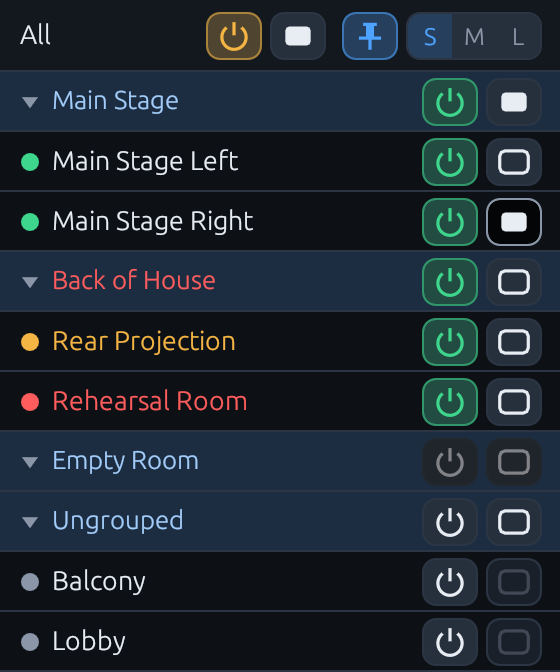
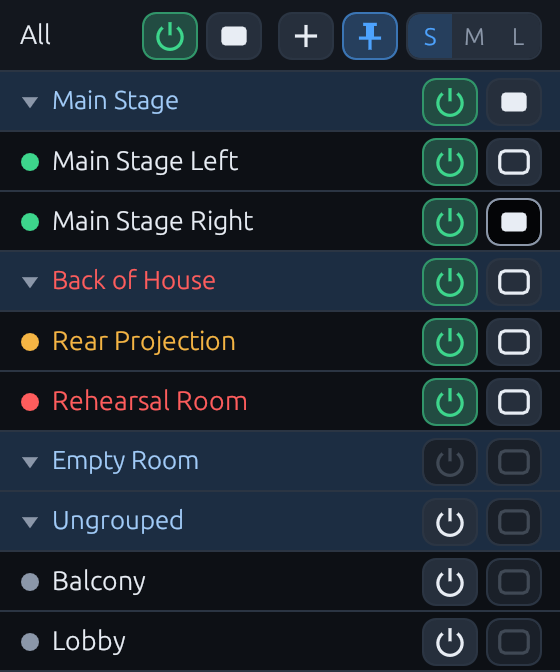
Small windows: pop-out details and editing, add and remove, group toggles
Details open in a little window of their own instead of switching to
the large window. A + button adds a projector, and right-clicking one
offers details, edit, move to group and remove. In the small strip a
group's button flips the whole group when its members agree, and only
asks which way when they differ.

diff --git a/src/ui/compact.rs b/src/ui/compact.rs
@@ -237,6 +237,7 @@ fn projector_controls(
     small: bool,
     cfg: &ProjectorConfig,
     st: &ProjectorState,
+    detail_open: bool,
     acts: &mut Vec<Act>,
 ) {
     let id = Id::new(("compact", cfg.id));
@@ -284,12 +285,17 @@ fn projector_controls(
             power = Some(!matches!(side, Some((true, _))));
         }
     } else {
-        if icon_button(ui, ICON, Icon::Info, true, None)
-            .on_hover_text("Details, in the large window")
-            .clicked()
+        if icon_button(
+            ui,
+            ICON,
+            Icon::Info,
+            true,
+            detail_open.then(|| tint(ACCENT)),
+        )
+        .on_hover_text("Details, in a window of their own")
+        .clicked()
         {
-            acts.push(Act::SetSize(WindowSize::Large));
-            acts.push(Act::Detail(Some(cfg.id)));
+            acts.push(Act::Detail((!detail_open).then_some(cfg.id)));
         }
         let segs = [
             Seg {
@@ -334,17 +340,24 @@ fn projector_controls(
     }
 }
 
-/// A picture button that offers two choices when clicked.
+/// A picture button for a set of projectors. When they all agree it flips
+/// them to the other state (`flip`); when they differ it asks which.
+#[allow(clippy::too_many_arguments)]
 fn choice_button(
     ui: &mut egui::Ui,
     id: Id,
     icon: Icon,
+    enabled: bool,
     lit: Option<Tint>,
     tip: &str,
+    flip: Option<usize>,
     choices: [&str; 2],
 ) -> Option<usize> {
-    let resp = icon_button(ui, ICON, icon, true, lit).on_hover_text(tip);
+    let resp = icon_button(ui, ICON, icon, enabled, lit).on_hover_text(tip);
     if resp.clicked() {
+        if flip.is_some() {
+            return flip;
+        }
         ui.memory_mut(|m| m.toggle_popup(id));
     }
     let mut out = None;
@@ -382,28 +395,55 @@ fn set_controls(
     let mut set_power = None;
 
     if small {
-        ui.add_enabled_ui(any, |ui| {
-            let (icon, lit, tip) = match shutter {
-                Tri::AllOn => (Icon::Close, Some(TINT_CLOSED), "Shutters closed"),
-                Tri::Mixed => (Icon::Close, None, "Some shutters closed"),
-                Tri::AllOff => (Icon::Open, None, "Shutters open"),
-                Tri::Unknown => (Icon::Open, None, "Shutters"),
-            };
-            let choices = ["Open shutters", "Close shutters"];
-            if let Some(i) = choice_button(ui, id.with("shutter"), icon, lit, tip, choices) {
-                set_shutter = Some(i == 1);
-            }
-            let (lit, tip) = match power {
-                Tri::AllOn => (Some(tint(GREEN)), "All on"),
-                Tri::Mixed => (Some(tint(GREEN)), "Some on, some off"),
-                Tri::AllOff => (None, "All off"),
-                Tri::Unknown => (None, "Power"),
-            };
-            let choices = ["Power on", "Power off"];
-            if let Some(i) = choice_button(ui, id.with("power"), Icon::Power, lit, tip, choices) {
-                set_power = Some(i == 0);
-            }
-        });
+        let (icon, lit, tip, flip) = match shutter {
+            Tri::AllOn => (
+                Icon::Close,
+                Some(TINT_CLOSED),
+                "Shutters closed. Click to open them.",
+                Some(0),
+            ),
+            Tri::AllOff => (
+                Icon::Open,
+                None,
+                "Shutters open. Click to close them.",
+                Some(1),
+            ),
+            Tri::Mixed => (
+                Icon::Close,
+                None,
+                "Some shutters closed. Click to choose.",
+                None,
+            ),
+            Tri::Unknown => (Icon::Open, None, "Shutters", None),
+        };
+        let choices = ["Open shutters", "Close shutters"];
+        let can = any && shutter != Tri::Unknown;
+        if let Some(i) = choice_button(ui, id.with("shutter"), icon, can, lit, tip, flip, choices) {
+            set_shutter = Some(i == 1);
+        }
+        let (lit, tip, flip) = match power {
+            Tri::AllOn => (Some(tint(GREEN)), "All on. Click to power off.", Some(1)),
+            Tri::AllOff => (None, "All off. Click to power on.", Some(0)),
+            Tri::Mixed => (
+                Some(tint(GREEN)),
+                "Some on, some off. Click to choose.",
+                None,
+            ),
+            Tri::Unknown => (None, "Power", None),
+        };
+        let choices = ["Power on", "Power off"];
+        if let Some(i) = choice_button(
+            ui,
+            id.with("power"),
+            Icon::Power,
+            any,
+            lit,
+            tip,
+            flip,
+            choices,
+        ) {
+            set_power = Some(i == 0);
+        }
     } else {
         let segs = [
             Seg {
@@ -494,6 +534,12 @@ impl App {
                 ui.spacing_mut().item_spacing = Vec2::ZERO;
                 let left = strip(ui, head_h, PANEL, |ui| {
                     window_toggles(ui, &self.cfg, acts);
+                    if icon_button(ui, ICON, Icon::Plus, true, None)
+                        .on_hover_text("Add a projector")
+                        .clicked()
+                    {
+                        acts.push(Act::EditNew);
+                    }
                     ui.add_space(4.0);
                     let scope = format!("all {} projectors", all.len());
                     set_controls(ui, Id::new("compact-all"), small, &all, &scope, acts);
@@ -526,7 +572,7 @@ impl App {
                             ui.add_space(14.0);
                             ui.horizontal_wrapped(|ui| {
                                 ui.add_space(PAD);
-                                ui.label(dim("No projectors yet. Switch to the large window (L) to add them."));
+                                ui.label(dim("No projectors yet. Add one with the + button."));
                             });
                             height += 64.0;
                         }
@@ -611,7 +657,7 @@ impl App {
         let (cfg, st) = item;
         let small = self.cfg.size == WindowSize::Small;
         let left = strip(ui, h, BG, |ui| {
-            projector_controls(ui, small, cfg, st, acts);
+            projector_controls(ui, small, cfg, st, self.detail == Some(cfg.id), acts);
         });
         let sev = st.severity();
         let dot = if sev != Severity::Ok {
@@ -644,7 +690,69 @@ impl App {
                 note
             }
         );
-        ui.interact(left, Id::new(("compact-name", cfg.id)), Sense::hover())
-            .on_hover_text(tip);
+        ui.interact(left, Id::new(("compact-name", cfg.id)), Sense::click())
+            .on_hover_text(format!("{tip}\nRight-click to edit or remove."))
+            .context_menu(|ui| {
+                if ui.button("Details").clicked() {
+                    acts.push(Act::Detail(Some(cfg.id)));
+                    ui.close_menu();
+                }
+                if ui.button("Edit…").clicked() {
+                    acts.push(Act::Edit(cfg.id));
+                    ui.close_menu();
+                }
+                ui.menu_button("Move to group", |ui| {
+                    if ui
+                        .selectable_label(cfg.group.is_none(), "No group")
+                        .clicked()
+                    {
+                        acts.push(Act::MoveToGroup(vec![cfg.id], None));
+                        ui.close_menu();
+                    }
+                    for g in &self.cfg.groups {
+                        if ui
+                            .selectable_label(cfg.group.as_deref() == Some(g.as_str()), g)
+                            .clicked()
+                        {
+                            acts.push(Act::MoveToGroup(vec![cfg.id], Some(g.clone())));
+                            ui.close_menu();
+                        }
+                    }
+                });
+                ui.separator();
+                if ui.button(RichText::new("Remove…").color(RED)).clicked() {
+                    acts.push(remove_confirm(cfg));
+                    ui.close_menu();
+                }
+            });
+    }
+}
+
+impl App {
+    /// A separate little window beside a small one, for what will not fit
+    /// inside it. Returns true when its close button was pressed.
+    pub(super) fn pop_out(
+        &mut self,
+        ctx: &egui::Context,
+        key: &str,
+        title: &str,
+        size: [f32; 2],
+        acts: &mut Vec<Act>,
+        mut contents: impl FnMut(&mut Self, &egui::Context, &mut Vec<Act>),
+    ) -> bool {
+        let mut builder = egui::ViewportBuilder::default()
+            .with_title(title)
+            .with_inner_size(size)
+            .with_resizable(false);
+        if self.cfg.on_top {
+            builder = builder.with_always_on_top();
+        }
+        ctx.show_viewport_immediate(egui::ViewportId::from_hash_of(key), builder, |ctx, _| {
+            contents(self, ctx, acts);
+            egui::CentralPanel::default()
+                .frame(egui::Frame::none().fill(PANEL))
+                .show(ctx, |_| {});
+            ctx.input(|i| i.viewport().close_requested())
+        })
     }
 }

diff --git a/src/ui/mod.rs b/src/ui/mod.rs
@@ -189,6 +189,11 @@ impl App {
             Ok("detail") => {
                 app.detail = by_name(&app, "Rehearsal");
             }
+            Ok("edit") => {
+                if let Some(id) = by_name(&app, "Rehearsal") {
+                    app.apply(Act::Edit(id));
+                }
+            }
             Ok("multi") => {
                 let ids = [by_name(&app, "Left"), by_name(&app, "Right")];
                 app.selection.extend(ids.into_iter().flatten());
@@ -427,7 +432,6 @@ impl App {
                     // These only fit in the large window.
                     self.show_scan = false;
                     self.show_schedules = false;
-                    self.editor = None;
                 }
                 self.cfg.size = size;
                 self.save();
@@ -571,9 +575,41 @@ impl eframe::App for App {
             }
             self.central(ctx, &items, &mut acts);
         } else {
+            // What does not fit in a small window gets a window of its own.
             rows_h = Some(self.compact(ctx, &items, &mut acts));
+            if let Some(item) = self
+                .detail
+                .and_then(|id| items.iter().find(|i| i.0.id == id))
+            {
+                let title = format!("{} details", item.0.name);
+                if self.pop_out(
+                    ctx,
+                    "details",
+                    &title,
+                    [340.0, 620.0],
+                    &mut acts,
+                    |app, ctx, acts| app.detail_panel(ctx, item, acts),
+                ) {
+                    self.detail = None;
+                }
+            }
+            if self.editor.is_some()
+                && self.pop_out(
+                    ctx,
+                    "editor",
+                    "Projector",
+                    [460.0, 500.0],
+                    &mut acts,
+                    |app, ctx, acts| app.editor_dialog(ctx, acts),
+                )
+            {
+                self.editor = None;
+            }
+            self.confirm_dialog(ctx, &mut acts);
         }
-        self.dialogs(ctx, &items, &mut acts);
+        if self.cfg.size == WindowSize::Large {
+            self.dialogs(ctx, &items, &mut acts);
+        }
         drag_label(ctx);
 
         let size_before = self.cfg.size;

diff --git a/src/ui/dialogs.rs b/src/ui/dialogs.rs
@@ -133,7 +133,7 @@ impl App {
         self.confirm_dialog(ctx, acts);
     }
 
-    fn confirm_dialog(&mut self, ctx: &egui::Context, acts: &mut Vec<Act>) {
+    pub(super) fn confirm_dialog(&mut self, ctx: &egui::Context, acts: &mut Vec<Act>) {
         let Some(c) = &self.confirm else { return };
         let mut decision: Option<bool> = None;
         // The small windows are narrower than the usual dialog.
@@ -165,7 +165,7 @@ impl App {
         }
     }
 
-    fn editor_dialog(&mut self, ctx: &egui::Context, acts: &mut Vec<Act>) {
+    pub(super) fn editor_dialog(&mut self, ctx: &egui::Context, acts: &mut Vec<Act>) {
         let groups = self.cfg.groups.clone();
         let Some(ed) = &mut self.editor else { return };
         let mut close = false;

diff --git a/src/ui/theme.rs b/src/ui/theme.rs
@@ -376,6 +376,7 @@ pub enum Icon {
     Info,
     Power,
     Pin,
+    Plus,
 }
 
 /// Colours for a button that is showing a state.
@@ -449,6 +450,10 @@ pub fn paint_icon(p: &egui::Painter, rect: egui::Rect, icon: Icon, ink: Color32)
                 [c - Vec2::new(0.0, r * 1.2), c - Vec2::new(0.0, r * 0.2)],
                 line,
             );
+        }
+        Icon::Plus => {
+            p.line_segment([c - Vec2::new(r, 0.0), c + Vec2::new(r, 0.0)], line);
+            p.line_segment([c - Vec2::new(0.0, r), c + Vec2::new(0.0, r)], line);
         }
         Icon::Pin => {
             // A drawing pin seen from the side.
